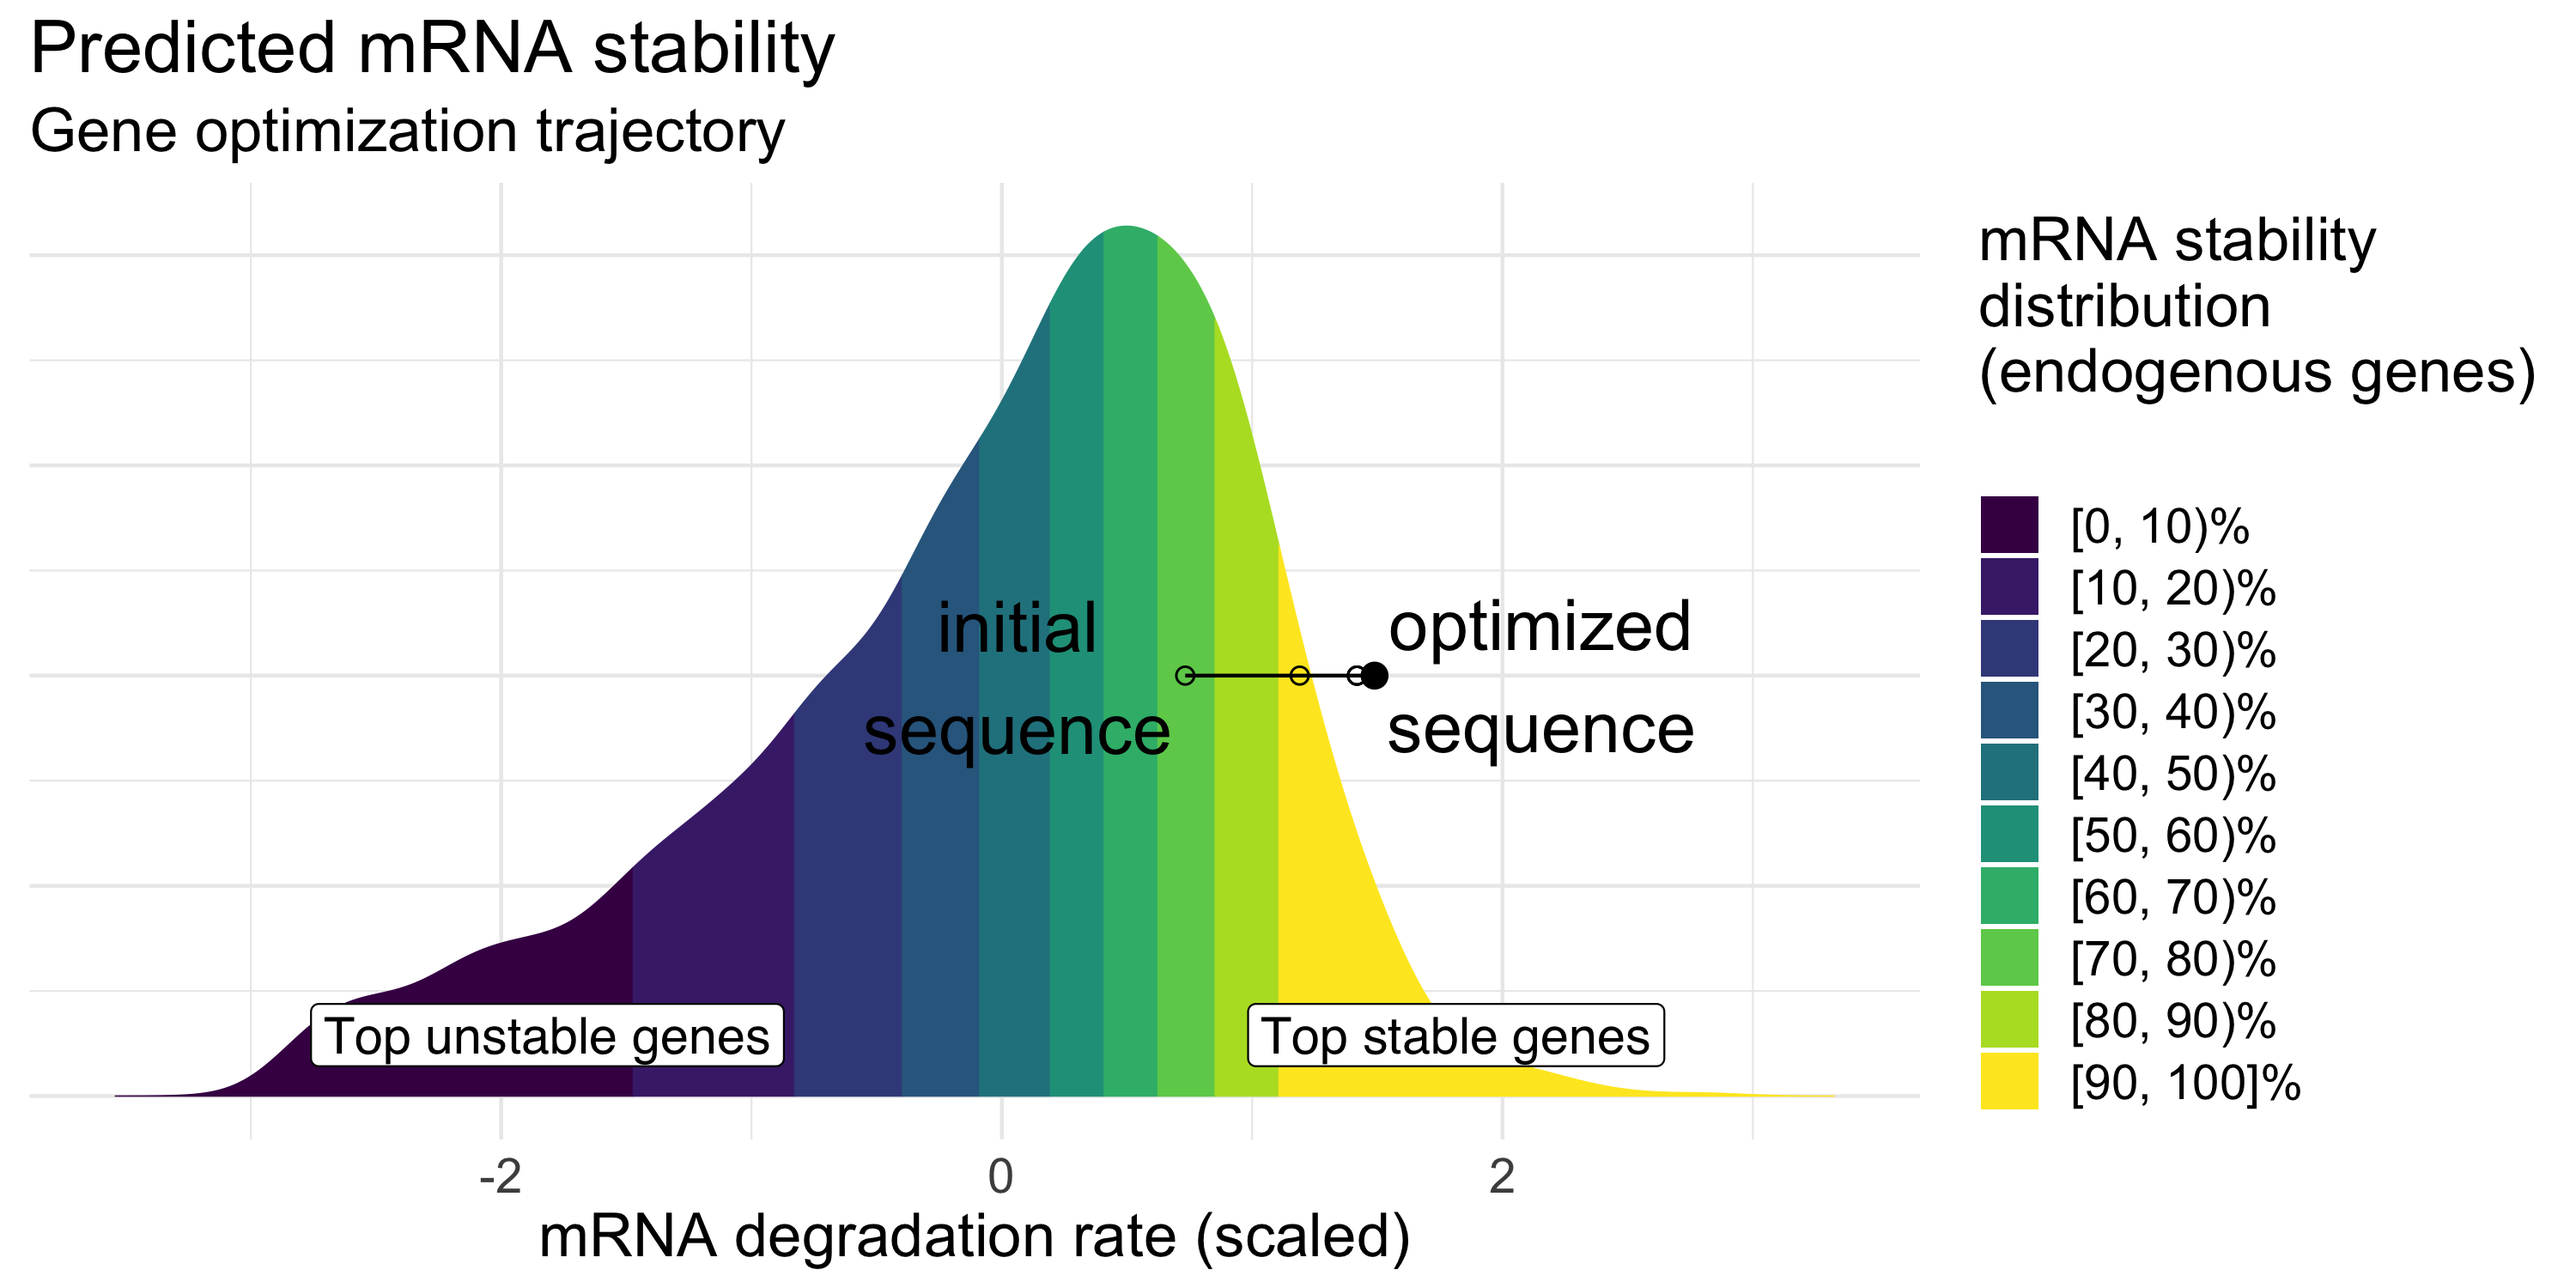
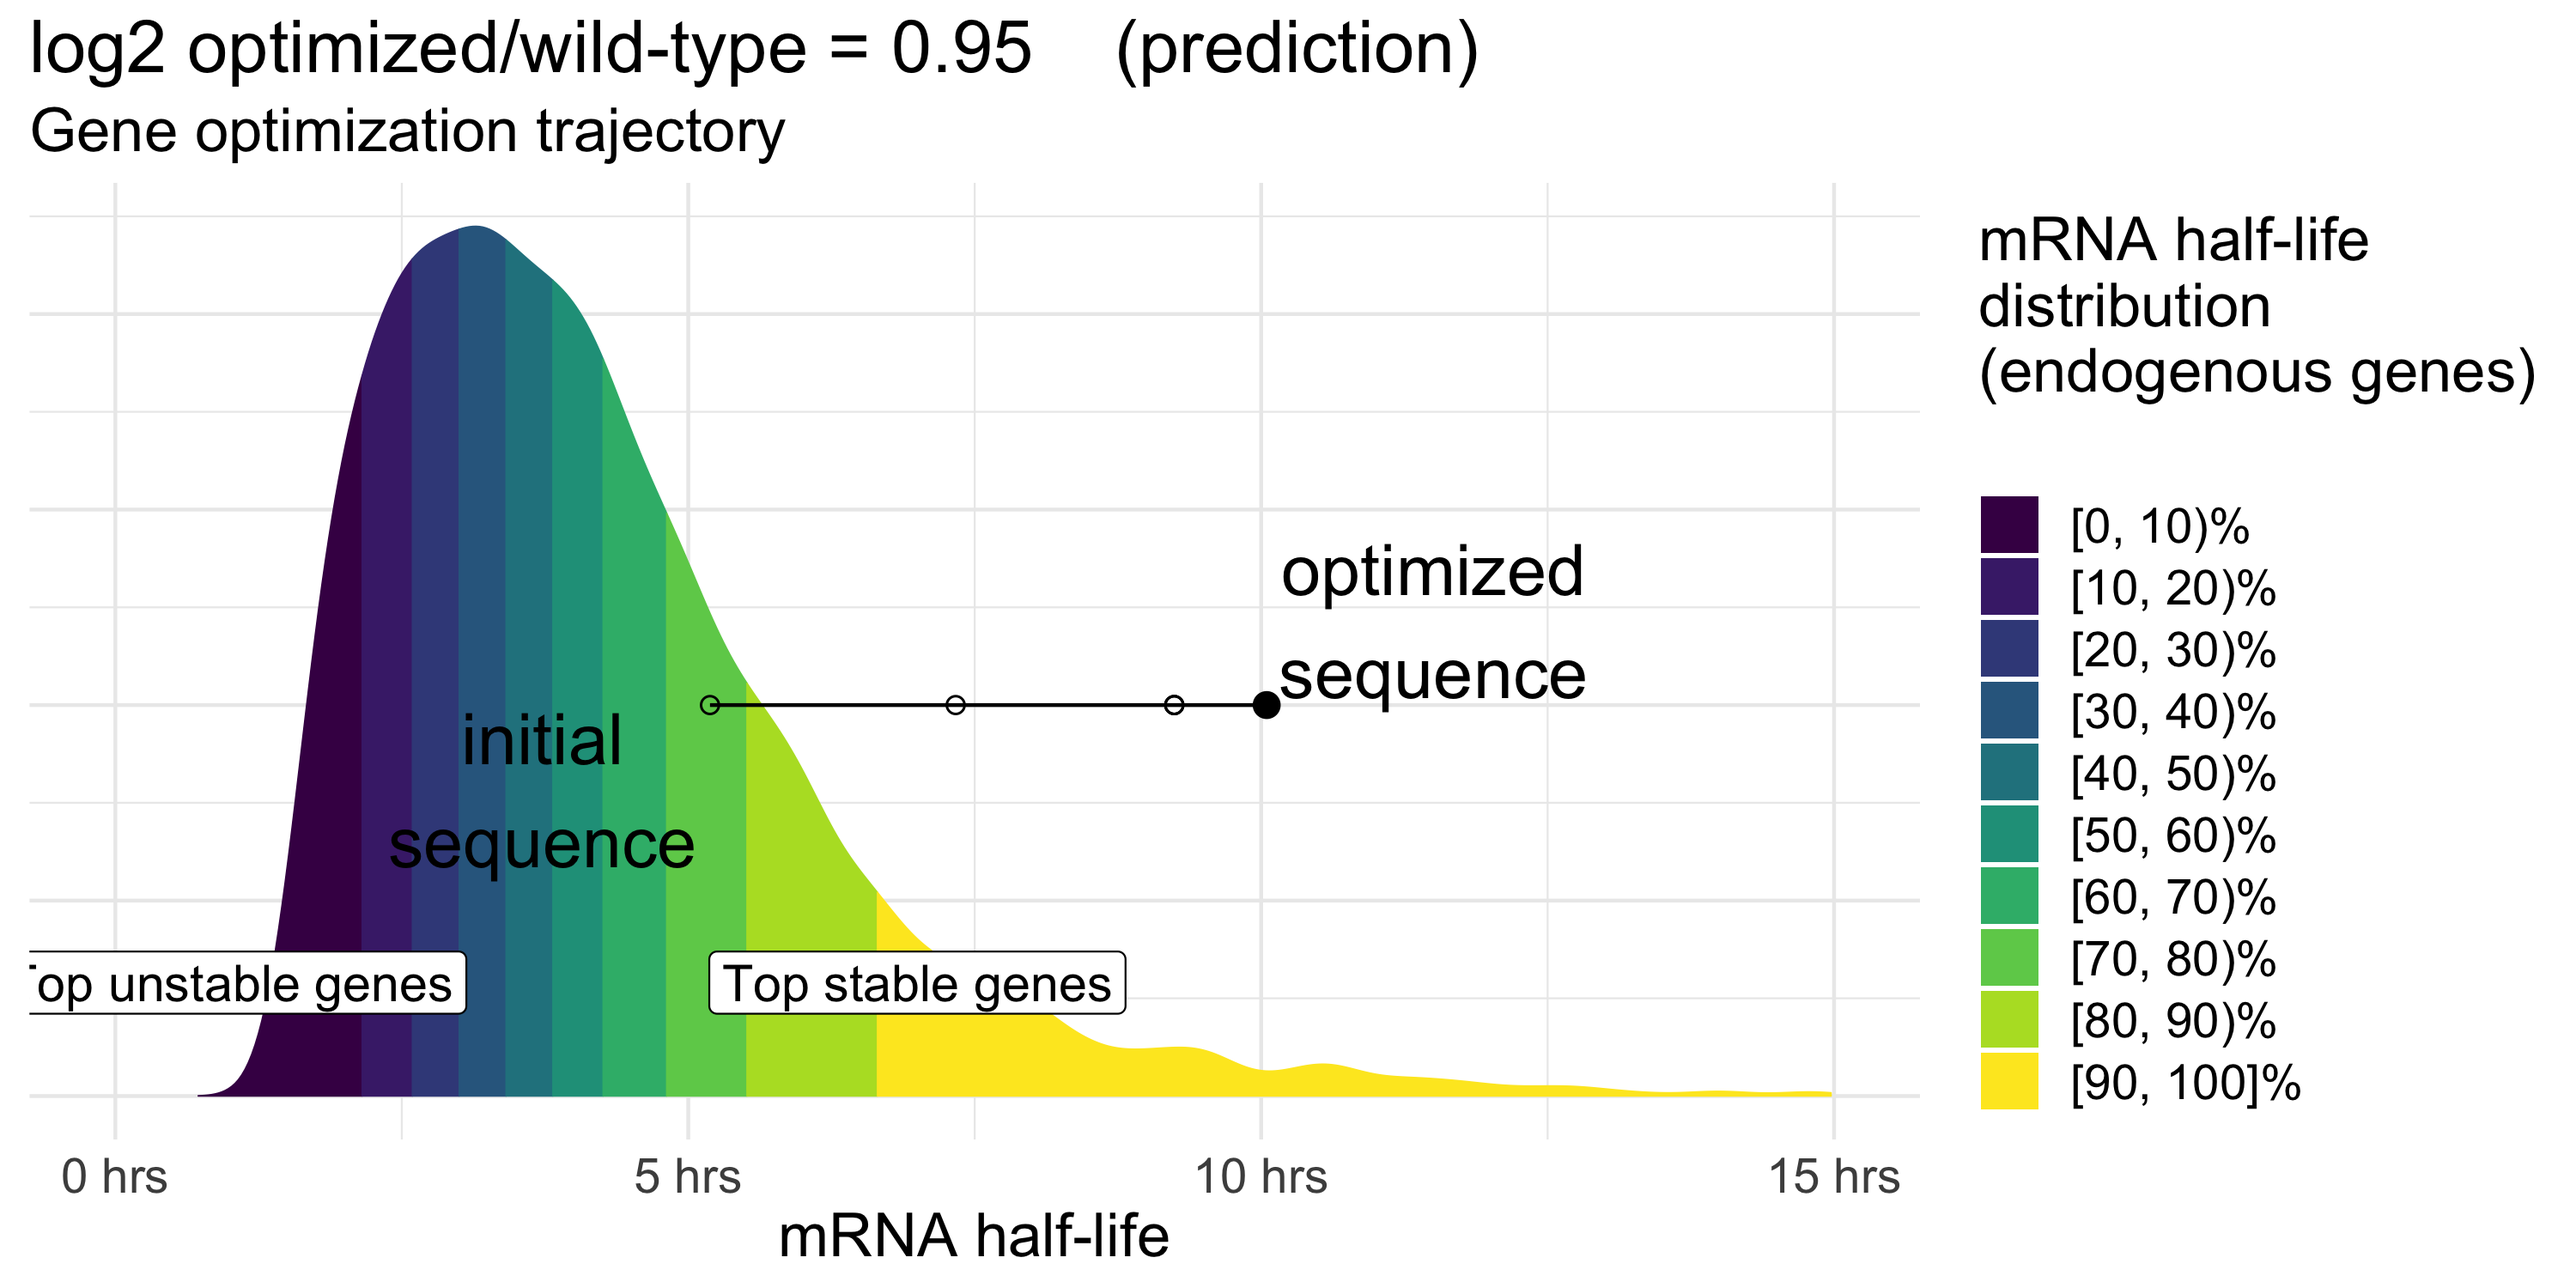
Display results with half-life

diff --git a/README.md b/README.md
@@ -17,8 +17,7 @@ The goal of optimalcodonR is to …
 
 ### [Try our interactive web application\!](http://maple:3838/smedina/CodonOptimization/)
 
-in production [Medina et
-al 2020](https://www.stowers.org/faculty/bazzini-lab)
+in production [Medina et al 2020](https://www.biorxiv.org/)
 
 ## :arrow\_double\_down: Installation
 
@@ -62,7 +61,8 @@ visualize_evolution(result)
 
 ``` r
 plot_optimization(result)
-#> Picking joint bandwidth of 0.151
+#> Picking joint bandwidth of 0.262
+#> Warning: Removed 86 rows containing non-finite values (stat_density_ridges).
 ```
 
 <img src="man/figures/README-viz2-1.png" width="100%" />
